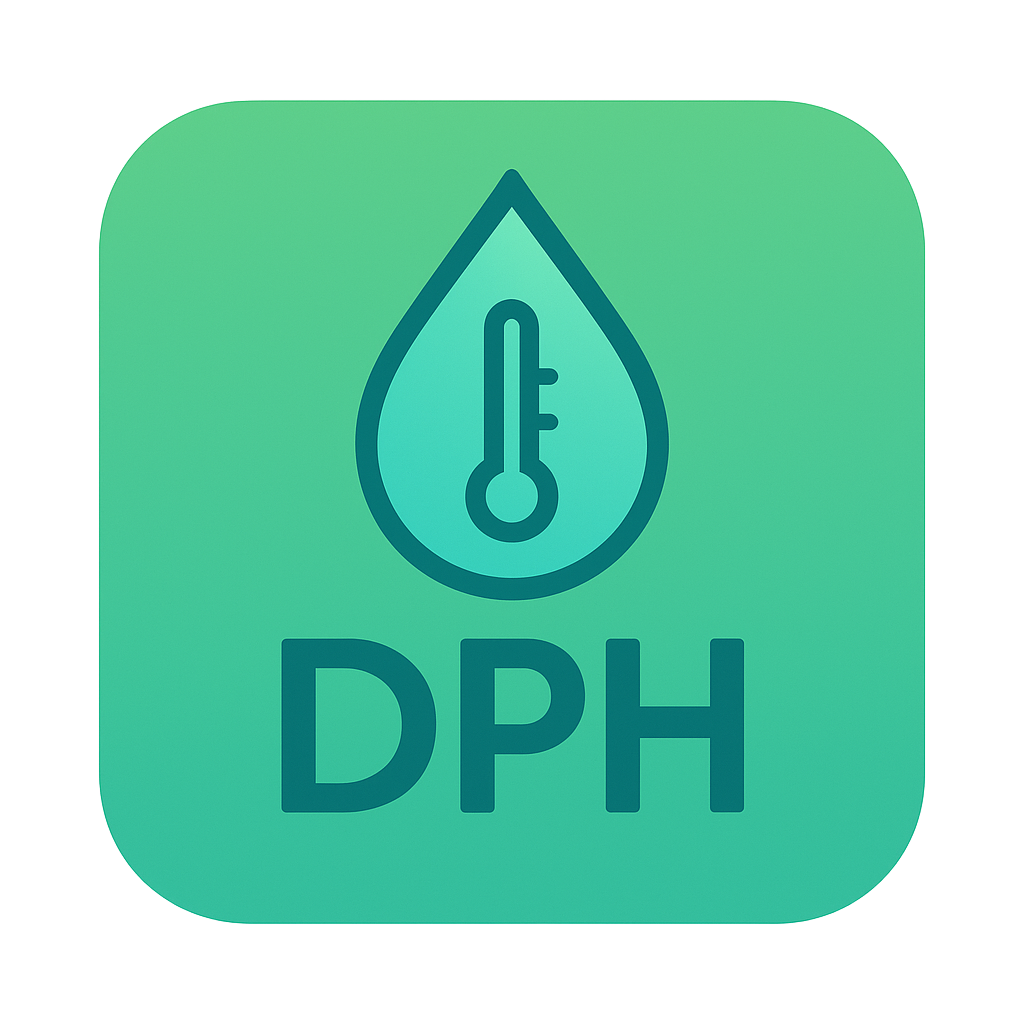
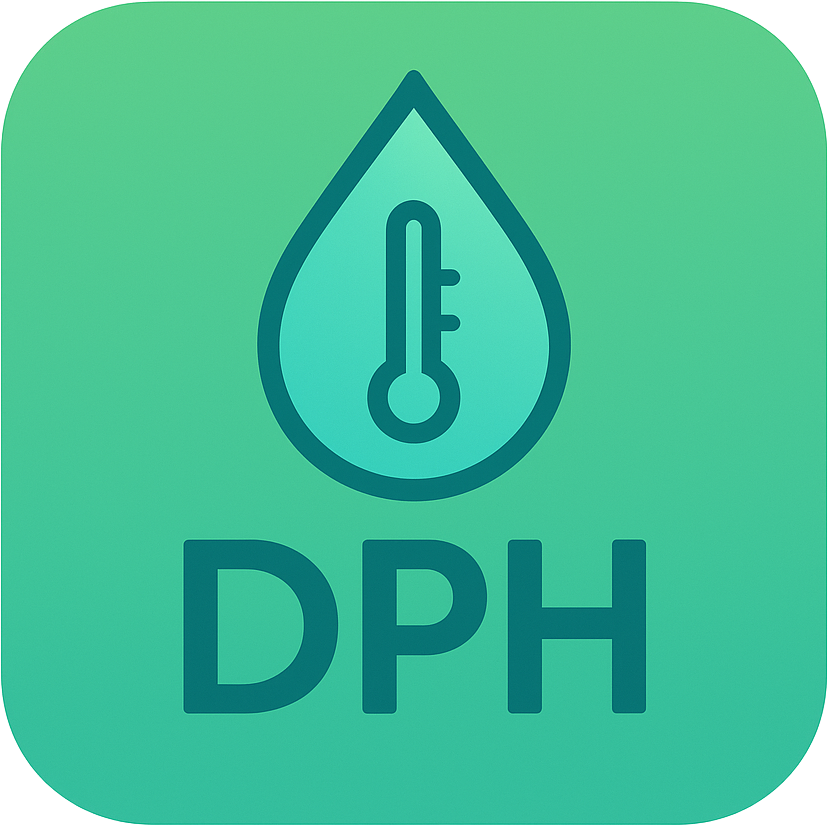
chore: altera ícone do app e ajusta configurações em app.config

diff --git a/app.config.js b/app.config.js
@@ -1,10 +1,16 @@
 export default ({ config }) => {
   const isDev = process.env.EAS_BUILD_PROFILE === "development";
+  // You should update these values as needed for each new release!
+  const version = "0.9.3";
+  const buildNumber = "2";
+  const versionCode = 2;
+
   return {
     ...config,
     name: isDev ? "Dew Point Helper (Dev)" : "Dew Point Helper",
     displayName: isDev ? "Dew Point Helper Dev" : "Dew Point Helper",
     icon: "./assets/icon.png",
+    version,
     extra: {
       eas: {
         projectId: "1cc2a678-1fdd-4696-93b8-9661bd1dbe35",
@@ -12,12 +18,14 @@ export default ({ config }) => {
     },
     ios: {
       bundleIdentifier: "com.ruders.dewpointhelper",
+      buildNumber,
       infoPlist: {
         ITSAppUsesNonExemptEncryption: false,
       },
     },
     android: {
       package: "com.ruders.dewpointhelper",
+      versionCode,
     },
   };
 };
